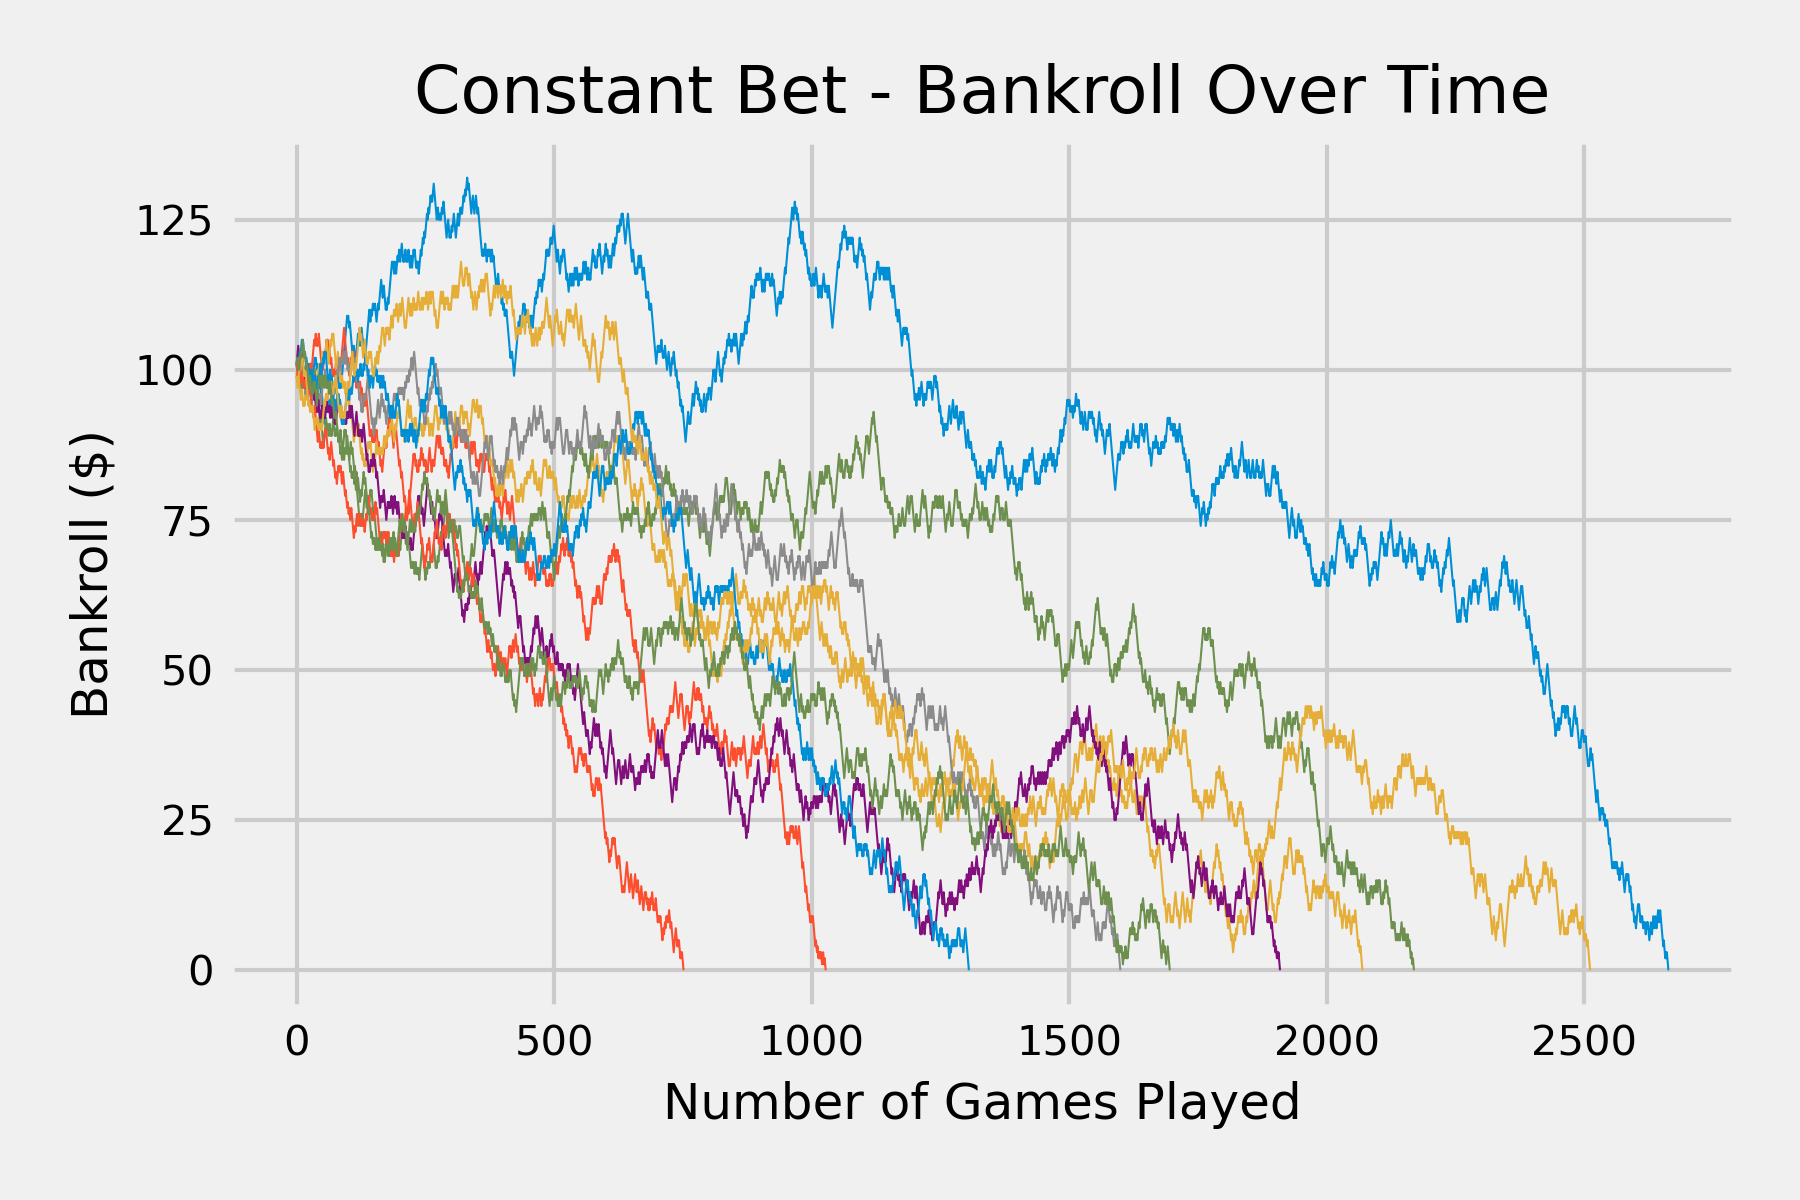
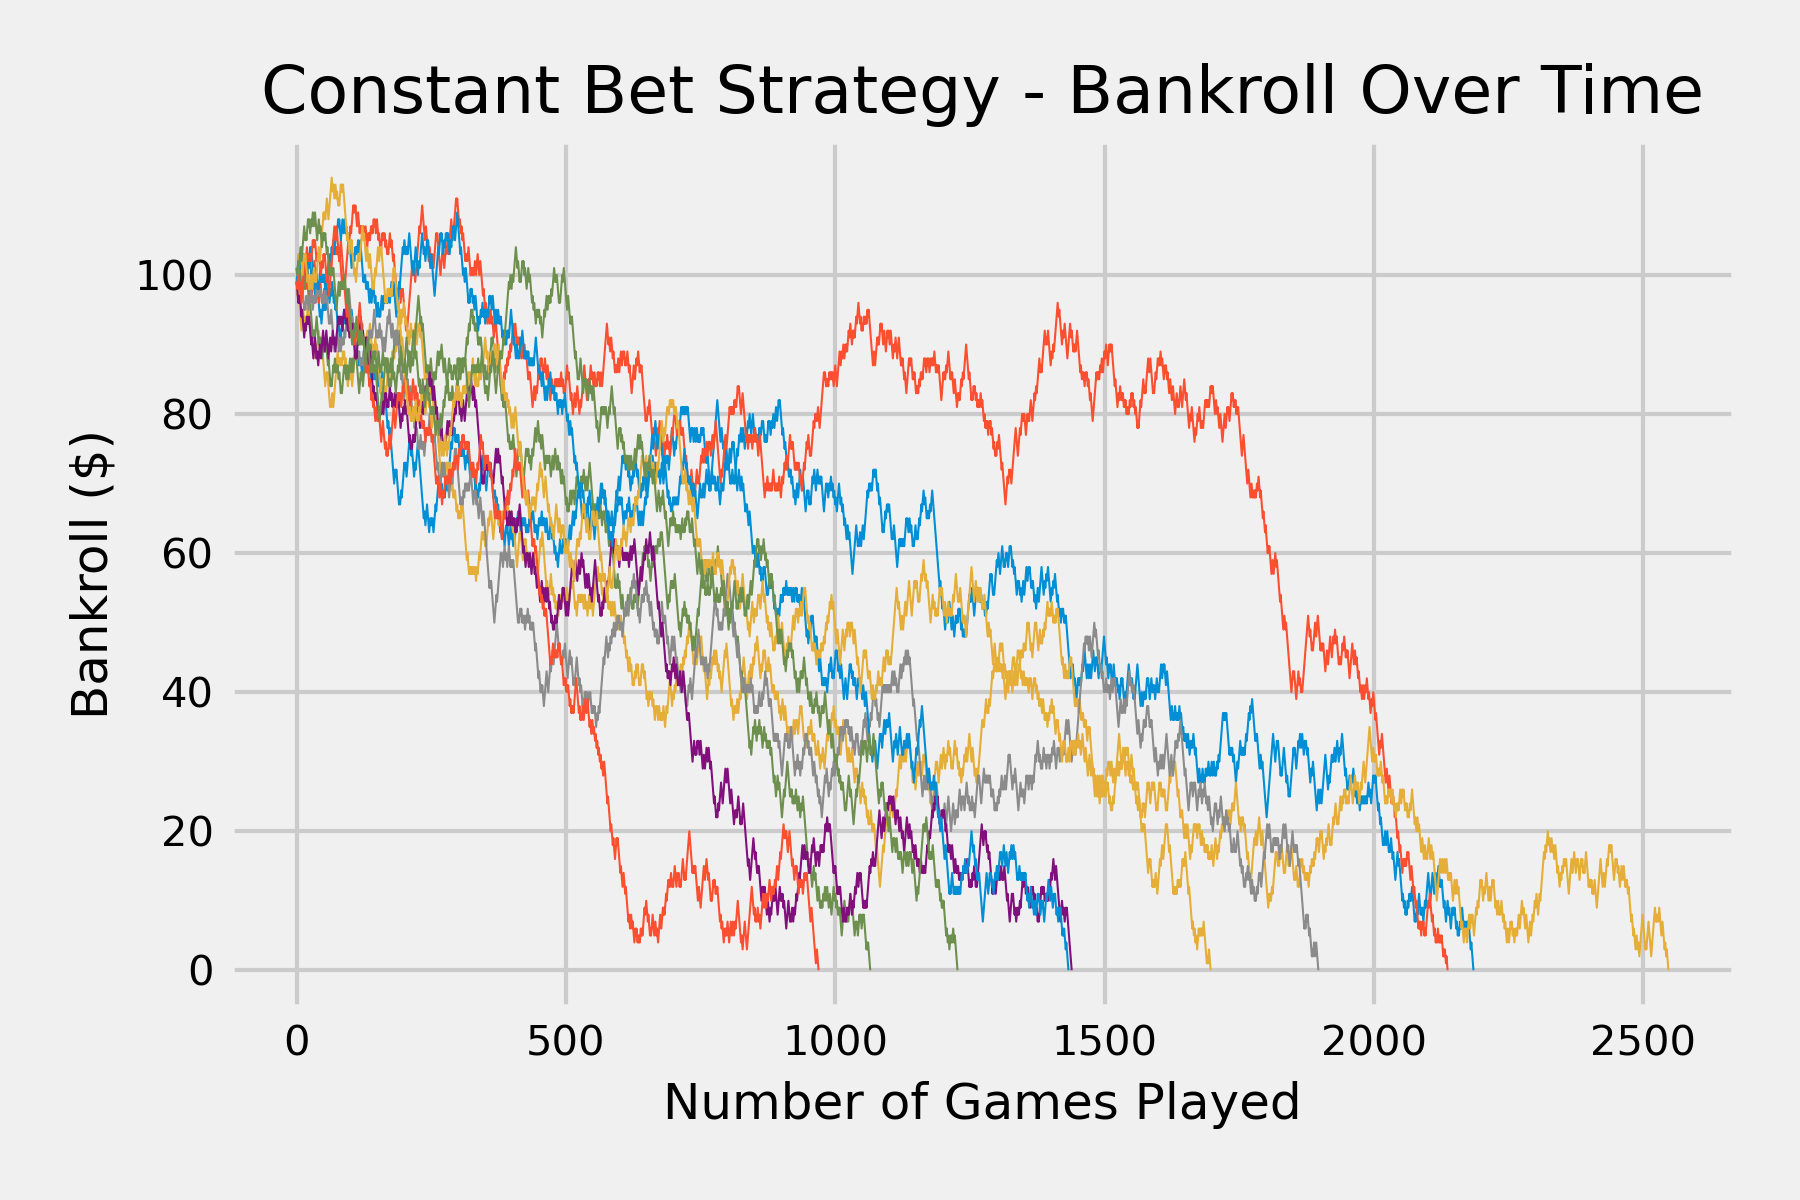
Modified roulette script

diff --git a/roulette.py b/roulette.py
@@ -1,6 +1,8 @@
 # Creating our virtual roulette wheel
 """
-Here we'll use Monte Carlo simulations to evaluate various gambling strategies and scenarios, while playong roulette.
+Here we'll use Monte Carlo simulations to evaluate various roulette strategies. 
+All bets are placed on even-money sections (e.g (Red/Black, Odd/Even, 1-18/19-36, etc),
+ which pay out 1/1.
 """
 
 #importing libraries
@@ -9,26 +11,33 @@ import numpy as np
 import matplotlib.pyplot as plt
 import seaborn as sns
 
-# Creating our simulated wheel
+#####################
+
+# Creating our simulated wheel and a function to simulate a spin of the wheel
+
 roulette_wheel = ['red'] * 18 + ['black'] * 18 + ['green'] * 2  # In American Roulette, the ball can fall in one of 38 pockets -- 18 red pockets, 18 black pockets, & 2 green pockets
 
-# Creating a function to simulate a spin of the wheel
+numbered_wheel = list(range(0, 37))
+numbered_wheel.append('00')
+
 def spin_wheel():
     return random.choice(roulette_wheel)
 
-#outcomes = []
-#bankroll_over_time = []
+def spin_numbered_wheel():
+    return random.choice(numbered_wheel)
 
+#####################
 
 """
-Strategy 1: A player always chooses 'red' and bets the same amount of money
+Strategy 1: The Constant Bet 
+No matter whether the player wins or loses, their bet remains the same.
 """
 
-# Function to simulate game play where a player always picks red, while placing a bet for the same amout of money
-def gamble_same_amount():
+# Function to simulate the Constant Bet strategy
+def constant_bet():
     bankroll_over_time = []
+    bankroll = 100  # Starting money reserve
     bet = 1 # Player always bets $1 for every spin of the wheel
-    bankroll = 100 # Starting money reserve
     while bankroll > 0: # Player can bet as long as they have money
         #for sim in range(1, simulations):
         roll = spin_wheel()
@@ -39,24 +48,25 @@ def gamble_same_amount():
             bankroll -= bet
 
         bankroll_over_time.append(bankroll)
-    #plt.plot(bankroll_over_time)
+
     return bankroll_over_time
 
 
+
 """
-Strategy 2: Martingale: The Martingale system is the most popular and commonly used roulette strategy. 
-The concept behind it is pretty simple – you increase your bet after every loss, so when you eventually win, 
-you get your lost money back and start betting with the initial amount again. It seems quite logical, and 
-it’s fairly easy to understand and implement. No need to be a math wizard or a strategic mastermind in 
-order to use this system.
+Strategy 2: The Martingale
+The Martingale system is the most popular and commonly used roulette strategy. 
+The player increases their bet after every loss, so when you eventually win, 
+you get your lost money back and start betting with the initial amount again. 
+There are different methods to increase the value of the bet. Here we'll double 
+the bet after every loss.
 """
 
-
-# Function to simulate game play where a player uses the Martingale Strategy
+# Function to simulate game play where a player uses the Martingale strategy
 def martingale():
     bankroll_over_time = []
-    bet = 0.01  # Initial bet
     bankroll = 100  # Starting money reserve
+    bet = 0.01  # Initial bet
     while bankroll > 0:
         roll = spin_wheel()
         if bet > bankroll:
@@ -67,42 +77,150 @@ def martingale():
             bet = 0.01
         else:
             bankroll -= bet
-            bet *= 2 
+            bet *= 2
 
         bankroll_over_time.append(bankroll)
-    #plt.plot(bankroll_over_time)
+
     return bankroll_over_time
 
 
 
-# # Function to simulate multiple gambling sessions
-# def monte_carlo(simulations):
-#     plt.style.use('fivethirtyeight')
-#     for sim in range(1, simulations+1):
-#         plt.plot(gamble_same_amount(), linewidth=0.5)
-#         plt.xlabel("Number of Games Played", fontsize=12)
-#         plt.ylabel("Bankroll ($)", fontsize=12)
-#         plt.xticks(fontsize=10)
-#         plt.yticks(fontsize=10)
-#         plt.title("Constant Bet - Bankroll Over Time", fontsize=16)
-#         plt.tight_layout()
-#         plt.savefig(f'images/roulette_constant_bet.png', dpi=300)
+"""
+Strategy 3: The Grand Martingale
+The Grand Martingale strategy is the same as the Martingale strategy at its core. 
+The only difference is that every time the player loses a hand, they double the 
+current bet plus an extra amount equal to the original bet. 
+"""
 
-# monte_carlo(10)
 
+# Function to simulate game play where a player uses the Martingale strategy
+def grand_martingale():
+    bankroll_over_time = []
+    bankroll = 100  # Starting money reserve
+    bet = 0.01  # Initial bet
+    while bankroll > 0:
+        roll = spin_wheel()
+        if bet > bankroll:
+            bet = bankroll  # This ensures that the player cannot bet more than they have
+        #outcomes.append(roll)
+        if roll == 'red':
+            bankroll += bet
+            bet = 0.01
+        else:
+            bankroll -= bet
+            bet *= 2 + bet
+
+        bankroll_over_time.append(bankroll)
+
+    return bankroll_over_time
+
+
+
+"""
+Strategy 4: The Reverse Martingale
+The Reverse Martingale betting strategy follows similar rules to the 
+Martingale strategy, but in reverse. Instead of doubling their bet 
+when they lose a hand, it is increased after a win.
+"""
+
+# Function to simulate game play where a player uses the Reverse Martingale strategy
+def reverse_martingale():
+    bankroll_over_time = []
+    bankroll = 100  # Starting money reserve
+    bet = 0.01  # Initial bet
+    while bankroll > 0:
+        roll = spin_wheel()
+        if bet > bankroll:
+            bet = bankroll  # This ensures that the player cannot bet more than they have
+        #outcomes.append(roll)
+        if roll == 'red':
+            bankroll += bet
+            bet *= 2
+        else:
+            bankroll -= bet
+            bet = 0.01
+
+        bankroll_over_time.append(bankroll)
+
+
+
+reverse_martingale = reverse_martingale()
+
+"""
+Strategy 5: The D’Alembert
+The D'Alembert strategy is similar to the Martingale strategy, but instead 
+of doubling the stake after a losing bet, as in the Martingale, one unit is 
+added to the player's stake. After a win, the stake decreases by one unit.
+"""
+
+# Function to simulate game play where a player uses the D'Alembert strategy
+def dalembert():
+    bankroll_over_time = []
+    bankroll = 100  # Starting money reserve
+    bet = 1  # Initial bet
+    while bankroll > 0:
+        roll = spin_wheel()
+        if bet > bankroll:
+            bet = bankroll  # This ensures that the player cannot bet more than they have
+        #outcomes.append(roll)
+        if roll == 'red':
+            bankroll += bet
+            bet -= 1
+            if bet == 0:
+                bet = 1 # In case the player wins on the first roll
+        else:
+            bankroll -= bet
+            bet += 1
+
+        bankroll_over_time.append(bankroll)
+
+    return bankroll_over_time
+
+
+
+"""
+Strategy 6: All-In
+For players who like living a little on the edge, the All-In betting strategy 
+can provide an adrenaline rush or quick cash. The approach is exactly like it 
+sounds. Choose a number to bet on, and bet your whole bankroll on it.
+"""
+
+# Function to simulate game play where a player uses the D'Alembert strategy
+def all_in():
+    bankroll_over_time = []
+    bankroll = 100  # Starting money reserve
+    bet = 100  # Initial bet
+    while bankroll > 0:
+        roll = spin_wheel()
+        #outcomes.append(roll)
+        if roll == 'red':
+            bankroll += bet
+            bet = bankroll
+        else:
+            bankroll -= bet
+            bet = bankroll
+
+        bankroll_over_time.append(bankroll)
+
+    return bankroll_over_time
+
+
+###################################################
 
 # Function to simulate multiple gambling sessions
 def monte_carlo(simulations):
     plt.style.use('fivethirtyeight')
     for sim in range(1, simulations + 1):
-        plt.plot(martingale(), linewidth=0.5)
+        plt.plot(all_in(), linewidth=0.5)
         plt.xlabel("Number of Games Played", fontsize=12)
         plt.ylabel("Bankroll ($)", fontsize=12)
         plt.xticks(fontsize=10)
         plt.yticks(fontsize=10)
-        plt.title("Martingal Strategy - Bankroll Over Time", fontsize=16)
+        plt.title('All In Strategy - Bankroll Over Time', fontsize=16)
         plt.tight_layout()
-        plt.savefig(f'images/roulette_martingale.png', dpi=300)
+        plt.savefig('images/roulette_all_in.png', dpi=300)
+
+###################################################
 
 
-monte_carlo(10)
+monte_carlo(10)  # Running 10 simulations

diff --git a/README.md b/README.md
@@ -1,3 +1,3 @@
-# monte-carlo-demo
+# Monte Carlo Method
 
 Monte Carlo simulations
